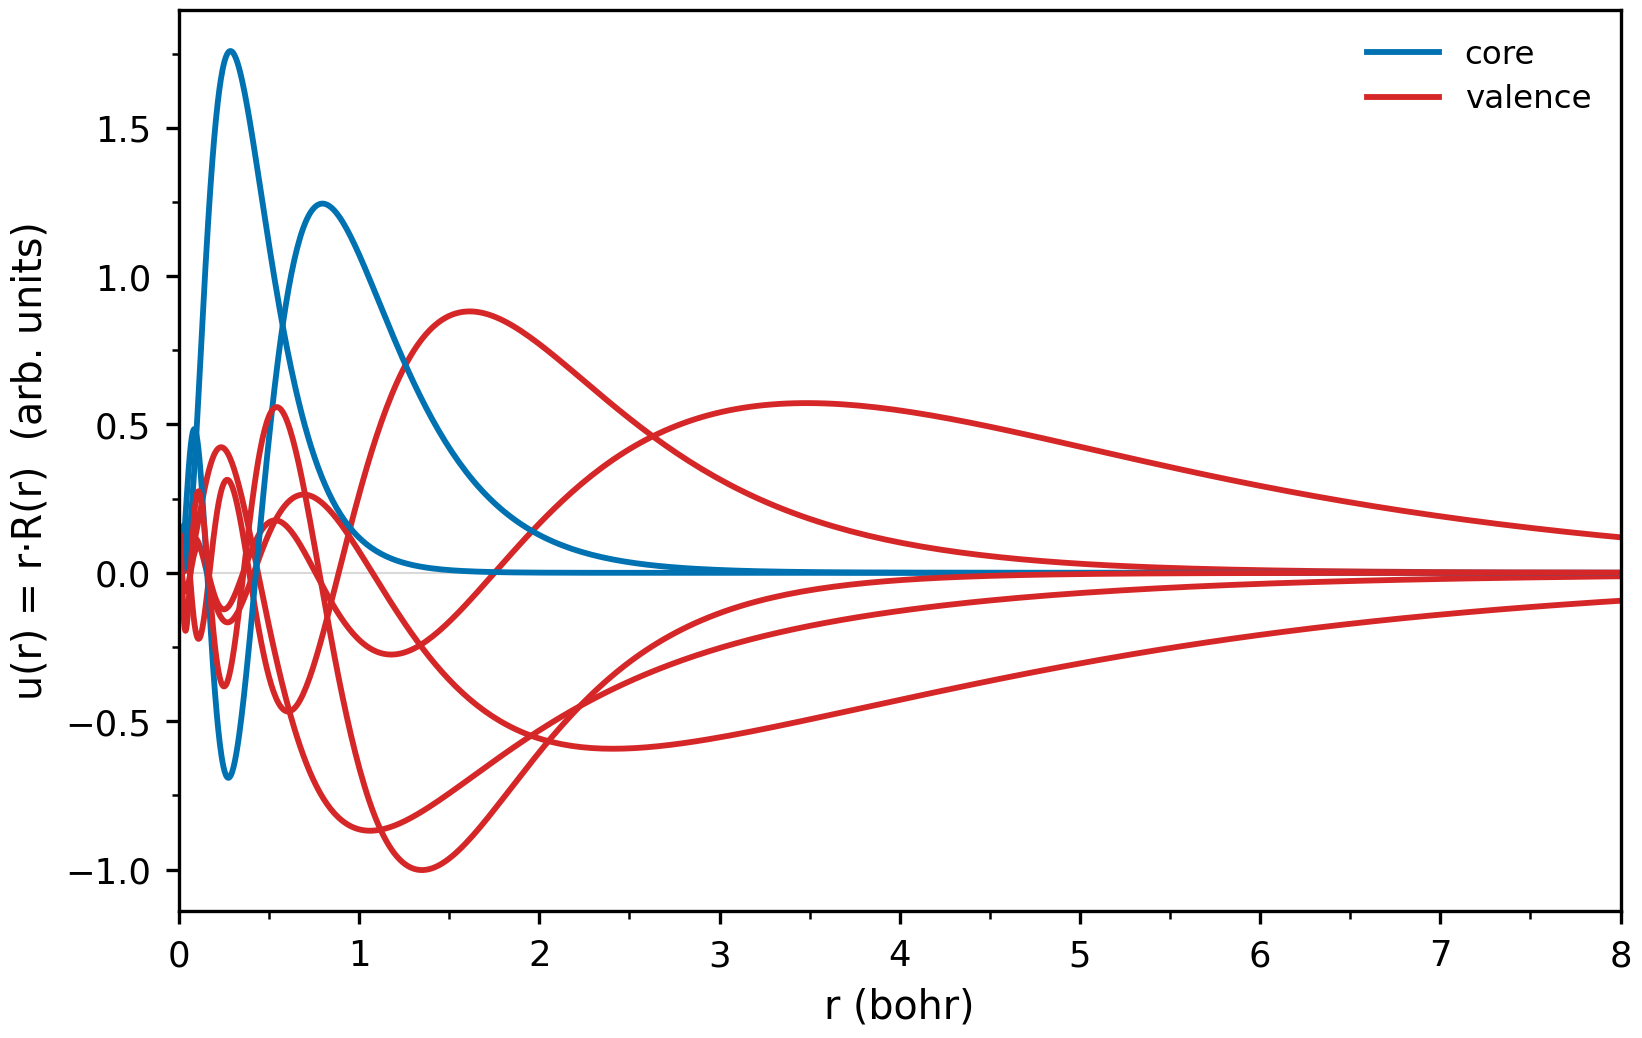
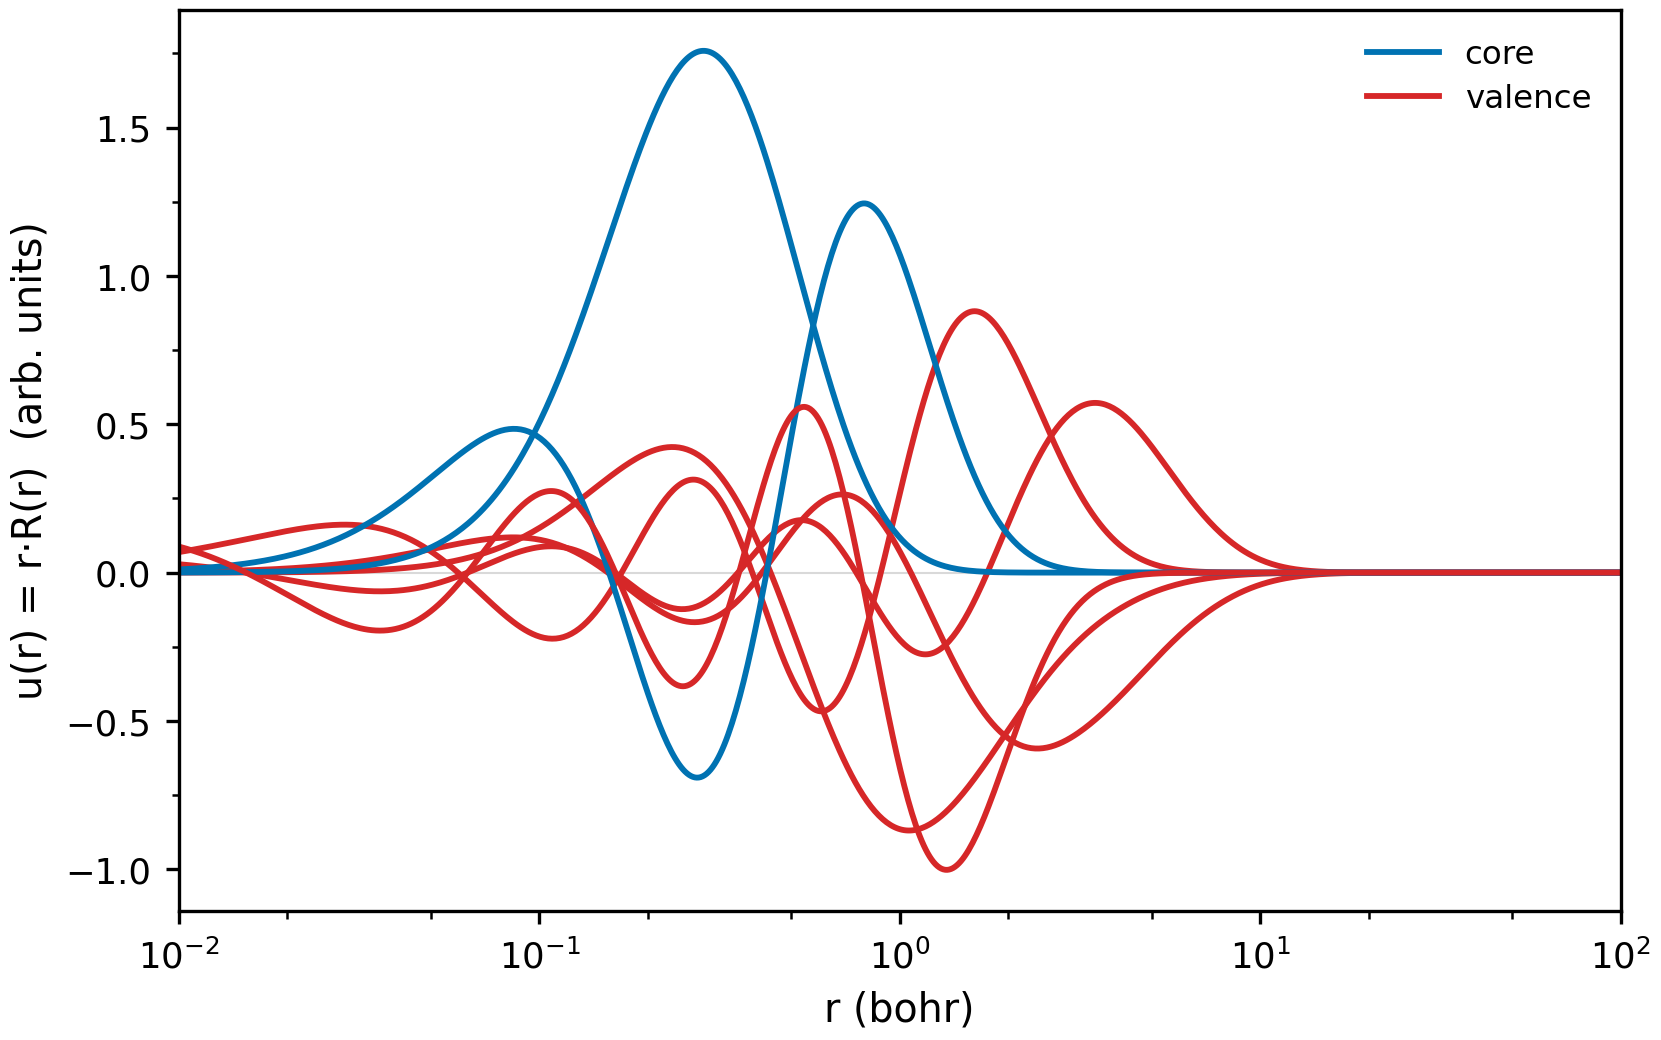
fig_radial_ae: logarithmic abscissa 1e-2..1e2 bohr, linear ordinate
The all-electron outer-shell figure now spans four decades of r on a log axis (1e-2 .. 1e2
bohr) while keeping a linear u(r), matching the convention already used by fig_radial_logx.
Colours, legend and title are unchanged.

Tests: 35.

diff --git a/src/aiida_ld1_scripts/report.py b/src/aiida_ld1_scripts/report.py
@@ -214,6 +214,7 @@ DEFAULT_VALENCE = ('6S', '7S', '6P', '6D', '5F')
 
 
 def figure_radial_ae(plt, directory: str | Path, out_base: Path, *, valence=None,
+                     xscale: str = 'log', xlim=(1e-2, 1e2),
                      formats: Sequence[str] = ('png',)) -> Optional[Path]:
     """All-electron outer-shell radial wavefunctions (Torres & Kaloni Fig. 1).
 
@@ -238,20 +239,23 @@ def figure_radial_ae(plt, directory: str | Path, out_base: Path, *, valence=None
         colour = VALENCE_COLOUR if label in valence else CORE_COLOUR
         axis.plot(grid, values[:, index], '-', color=colour, lw=1.4)
 
-    # the abscissa stops where the outermost orbital has died out, not at the end of the
-    # 100 bohr grid
-    reaches = []
-    for index in range(values.shape[1]):
-        column = np.abs(values[:, index])
-        top = float(column.max())
-        if top <= 0.0:
-            continue
-        tail = grid[column > 0.01 * top]
-        if tail.size:
-            reaches.append(float(tail.max()))
-    xmax = min(max(reaches) * 1.05 if reaches else 8.0, 8.0, float(grid[-1]))
-
-    axis.set_xlim(0.0, xmax)
+    if str(xscale).lower() == 'log':
+        axis.set_xscale('log')
+        axis.set_xlim(float(xlim[0]), float(xlim[1]))
+    else:
+        # on a linear axis the abscissa stops where the outermost orbital has died out,
+        # not at the end of the 100 bohr grid
+        reaches = []
+        for index in range(values.shape[1]):
+            column = np.abs(values[:, index])
+            top = float(column.max())
+            if top <= 0.0:
+                continue
+            tail = grid[column > 0.01 * top]
+            if tail.size:
+                reaches.append(float(tail.max()))
+        xmax = min(max(reaches) * 1.05 if reaches else 8.0, 8.0, float(grid[-1]))
+        axis.set_xlim(0.0, xmax)
     axis.set_xlabel('r (bohr)')
     axis.set_ylabel('u(r) = r·R(r)  (arb. units)')
     axis.axhline(0.0, color='0.85', lw=0.5, zorder=0)

diff --git a/tests/test_figures.py b/tests/test_figures.py
@@ -375,6 +375,9 @@ def test_the_all_electron_outer_shell_figure(captured):
     assert sorted(legend) == ['core', 'valence']
     assert axis.get_xlabel() == 'r (bohr)'
     assert axis.get_title() == ''
+    assert axis.get_xscale() == 'log'
+    assert axis.get_yscale() == 'linear'
+    assert axis.get_xlim() == pytest.approx((0.01, 100.0))
     assert outside_tight_bbox(figure, renderer, Text) == []
 
 
